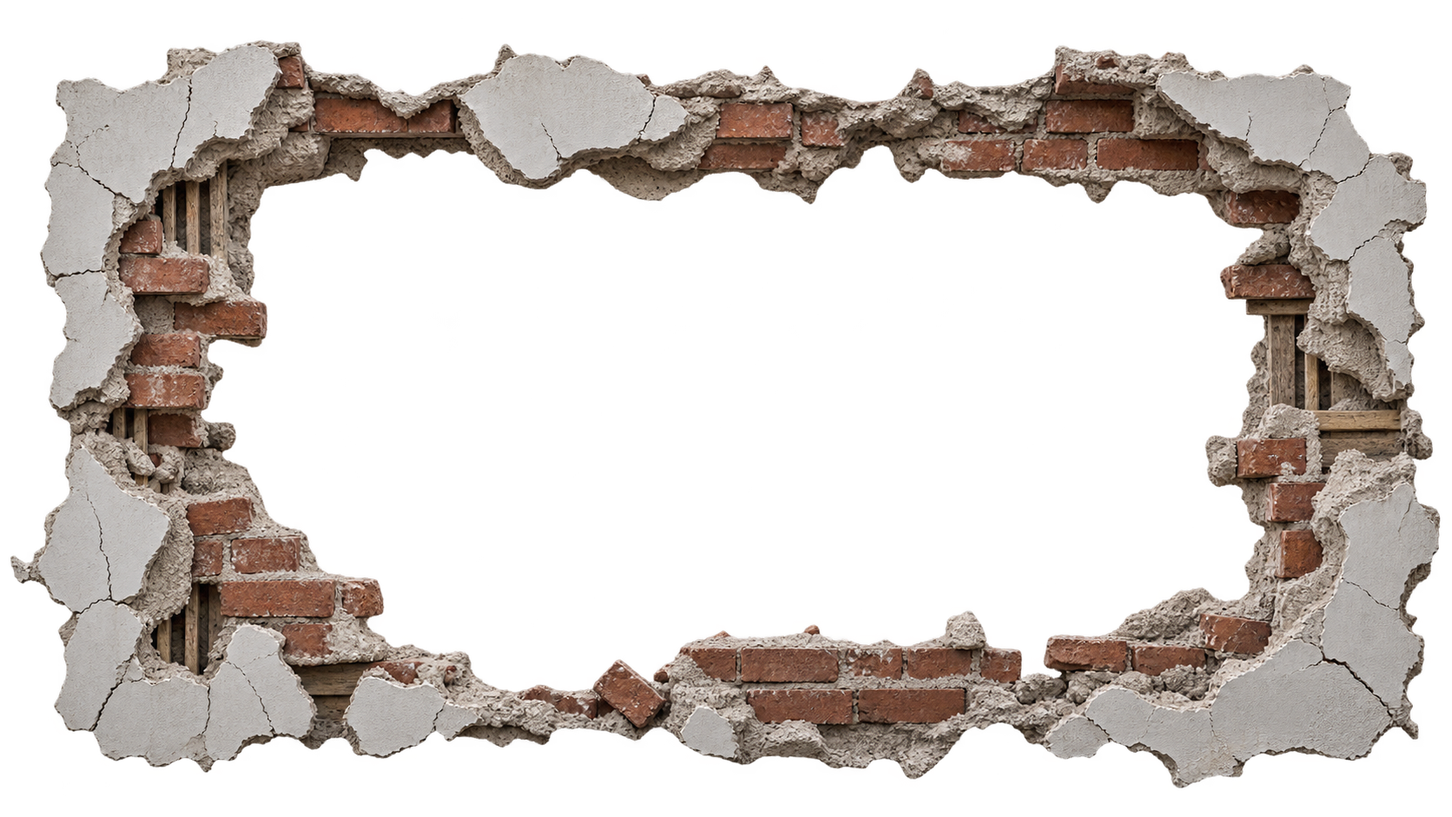
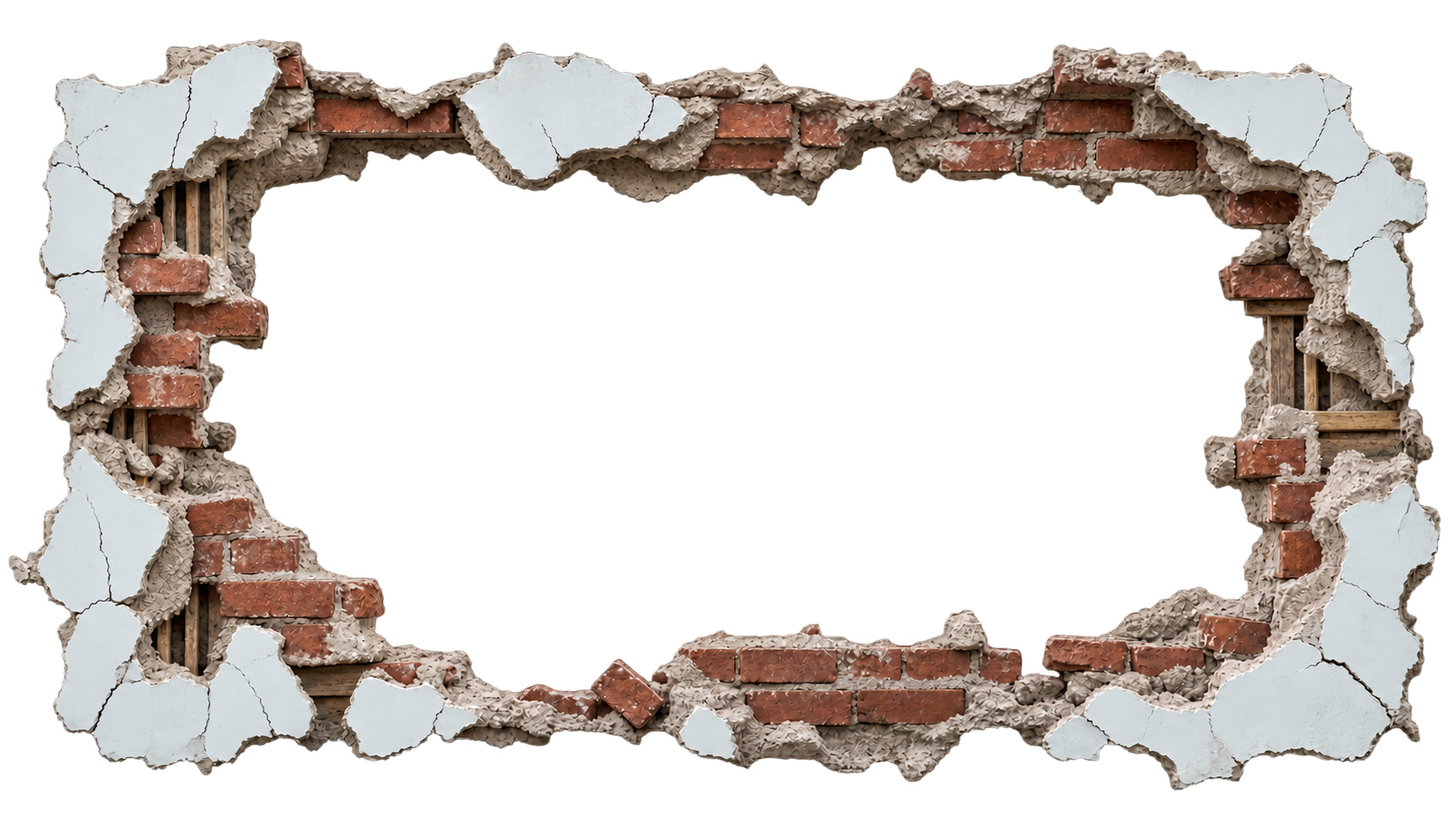
feat: accept Silk Commission 05 mineral frames

Changed region(s): [[0.0, 0.0308, 0.9952, 0.9862]]

diff --git a/src/client/e2e/project-story.spec.ts b/src/client/e2e/project-story.spec.ts
@@ -339,7 +339,7 @@ test('The Usual Specialists keeps Silk as apertures through the mineral page acr
       expect(await aperture.evaluate((element) => getComputedStyle(element).borderStyle)).toBe('none')
     }
 
-    const expectedCommission05Ratio = width <= 390 ? 1122 / 1402 : 1672 / 941
+    const expectedCommission05Ratio = width <= 390 ? 1024 / 1536 : 1672 / 941
     expect(
       Math.abs((commission05CompositionBox.width / commission05CompositionBox.height) - expectedCommission05Ratio),
       JSON.stringify({ width, commission05CompositionBox, expectedCommission05Ratio }),
@@ -397,7 +397,16 @@ test('The Usual Specialists keeps Silk as apertures through the mineral page acr
     expect(commission07.y, JSON.stringify({ width, commission07, commission05 })).toBeGreaterThan(commission05.y)
     expect(traversal.y, JSON.stringify({ width, traversal, commission05 })).toBeGreaterThan(commission05.y)
     expect(traversal.y, JSON.stringify({ width, traversal, commission05 })).toBeLessThan(commission05.y + commission05.height)
-    expect(traversal.y + traversal.height, JSON.stringify({ width, traversal, commission05 })).toBeGreaterThan(commission05.y + commission05.height)
+    if (width <= 390) {
+      // The portrait treatment is deliberately taller than the landscape frame.
+      // Keep Commission 06 overlapping the aperture without forcing it through the old bottom edge.
+      expect(
+        traversal.y + traversal.height,
+        JSON.stringify({ width, traversal, commission05 }),
+      ).toBeGreaterThanOrEqual(commission05.y + commission05.height - 40)
+    } else {
+      expect(traversal.y + traversal.height, JSON.stringify({ width, traversal, commission05 })).toBeGreaterThan(commission05.y + commission05.height)
+    }
     expect(story.y, JSON.stringify({ width, story, commission05 })).toBeGreaterThan(commission05.y)
     expect(receipt.y, JSON.stringify({ width, receipt, commission07 })).toBeGreaterThan(commission07.y)
     expect(nameMark.y, JSON.stringify({ width, nameMark, stage })).toBeGreaterThanOrEqual(stage.y)

diff --git a/src/client/scripts/validate-usual-specialists-provenance.test.ts b/src/client/scripts/validate-usual-specialists-provenance.test.ts
@@ -46,6 +46,9 @@ const validGraph = () => ({
     rope: { assets: [] },
     silk: { assets: [] },
   },
+  candidateManifests: {
+    silk: { assets: [] },
+  },
   generationReceipts: {
     index: { assets: { 'example-master': generationEntry() } },
     rope: { assets: {} },
@@ -80,6 +83,31 @@ describe('Usual Specialists provenance graph validator', () => {
     delete graph.acceptedManifests.index.assets[0].provenanceRecord
 
     expect(() => assertUsualSpecialistsProvenanceGraph(graph)).toThrow('provenanceRecord')
+  })
+
+  it('requires candidate custody to carry provenance and generation receipt coverage', () => {
+    const graph = validGraph()
+    graph.candidateManifests.silk.assets.push({
+      id: 'candidate-master',
+      status: 'candidate',
+      selection: 'page-review',
+      provenanceRecord: provenancePath,
+    })
+    graph.provenanceRecords[provenancePath] = provenanceRecord({ assetIds: ['example-master', 'candidate-master'] })
+
+    expect(() => assertUsualSpecialistsProvenanceGraph(graph)).toThrow('candidate-master')
+
+    graph.generationReceipts.silk.assets['candidate-master'] = generationEntry({
+      generationId: 'candidate-generation',
+      generationIdStatus: 'retained',
+      parentGenerationIdStatus: 'tool-returned-null',
+      seedStatus: 'not-supplied-by-tool',
+      generationDate: '2026-09-14',
+      generationDateStatus: 'retained',
+      briefStatus: 'normalized-from-approved-conversation',
+    })
+
+    expect(() => assertUsualSpecialistsProvenanceGraph(graph)).not.toThrow()
   })
 
   it('rejects a provenance pointer to a missing Markdown record', () => {

diff --git a/src/client/src/features/patch-showcase/usual-specialists/SilkCommission05Composition.test.tsx b/src/client/src/features/patch-showcase/usual-specialists/SilkCommission05Composition.test.tsx
@@ -3,7 +3,7 @@ import { describe, expect, test } from 'vitest'
 import { SilkCommission05Composition } from './SilkCommission05Composition'
 
 describe('SilkCommission05Composition', () => {
-  test('owns the accepted corridor scene inside the sealed world viewport and heavy frame', () => {
+  test('owns the accepted corridor scene inside the sealed world viewport and mineral-aligned accepted frames', () => {
     const { container } = render(<SilkCommission05Composition style={{ opacity: 0.5 }} />)
 
     const root = container.querySelector('[data-silk-commission-05-composition]')
@@ -21,6 +21,8 @@ describe('SilkCommission05Composition', () => {
     expect(frame).toHaveAttribute('src', expect.stringContaining('silk-commission-05-aperture-rim-heavy.webp'))
     expect(frame).toHaveAttribute('alt', '')
     expect(portraitFrame).toHaveAttribute('src', expect.stringContaining('silk-commission-05-aperture-rim-heavy-portrait.webp'))
+    expect(portraitFrame).toHaveAttribute('width', '1024')
+    expect(portraitFrame).toHaveAttribute('height', '1536')
     expect(portraitFrame).toHaveAttribute('alt', '')
   })
 

diff --git a/src/client/scripts/process-usual-specialists-assets.test.ts b/src/client/scripts/process-usual-specialists-assets.test.ts
@@ -1,6 +1,7 @@
 import { describe, expect, it } from 'vitest'
 import {
   USUAL_SPECIALISTS_ASSETS,
+  USUAL_SPECIALISTS_CANDIDATE_ASSETS,
   USUAL_SPECIALISTS_WEBP_OPTIONS,
   assertDerivativeReceipt,
   assertSourceIdentity,
@@ -57,7 +58,18 @@ describe('Usual Specialists asset processor', () => {
       output: 'silk-commission-06-abseil-hands-free.webp',
       width: 720,
     })
+    const silkPortraitFrame = USUAL_SPECIALISTS_ASSETS.find(({ id }) => id === 'silk-commission-05-aperture-rim-heavy-portrait')
+    expect(silkPortraitFrame).toMatchObject({
+      sourcePackage: 'silk',
+      source: 'silk-commission-05-aperture-rim-heavy-portrait.png',
+      output: 'silk-commission-05-aperture-rim-heavy-portrait.webp',
+      width: 1024,
+    })
     expect(USUAL_SPECIALISTS_WEBP_OPTIONS).toEqual({ quality: 82, alphaQuality: 100, effort: 6, smartSubsample: true })
+  })
+
+  it('has no active page-review derivatives after Commission 05 promotion', () => {
+    expect(USUAL_SPECIALISTS_CANDIDATE_ASSETS).toEqual([])
   })
 
   it('rejects source SHA drift', () => {

diff --git a/src/client/src/features/patch-showcase/usual-specialists/silkCommission05Geometry.ts b/src/client/src/features/patch-showcase/usual-specialists/silkCommission05Geometry.ts
@@ -1,7 +1,7 @@
 export const SILK_COMMISSION_05_FRAME_WIDTH = 1672
 export const SILK_COMMISSION_05_FRAME_HEIGHT = 941
-export const SILK_COMMISSION_05_PORTRAIT_FRAME_WIDTH = 1122
-export const SILK_COMMISSION_05_PORTRAIT_FRAME_HEIGHT = 1402
+export const SILK_COMMISSION_05_PORTRAIT_FRAME_WIDTH = 1024
+export const SILK_COMMISSION_05_PORTRAIT_FRAME_HEIGHT = 1536
 export const SILK_COMMISSION_05_FRAME_ALPHA_THRESHOLD = 250
 export const SILK_COMMISSION_05_FRAME_COVERAGE_BAND = 8
 
@@ -13,10 +13,10 @@ export const SILK_COMMISSION_05_VIEWPORT = {
 } as const
 
 export const SILK_COMMISSION_05_PORTRAIT_VIEWPORT = {
-  left: 170,
-  right: 957,
-  top: 150,
-  bottom: 1242,
+  left: 155,
+  right: 873,
+  top: 164,
+  bottom: 1361,
 } as const
 
 export const SILK_COMMISSION_05_VIEWPORT_INSETS = {

diff --git a/src/client/src/features/patch-showcase/usual-specialists/silkCommission05Geometry.test.ts b/src/client/src/features/patch-showcase/usual-specialists/silkCommission05Geometry.test.ts
@@ -36,12 +36,12 @@ describe('Silk Commission 05 geometry', () => {
     expect(safeTotalTravel).toBeGreaterThanOrEqual(128)
   })
 
-  test('uses the commissioned portrait viewport', () => {
+  test('uses the accepted portrait viewport scaled to the new source geometry', () => {
     expect(SILK_COMMISSION_05_PORTRAIT_VIEWPORT).toEqual({
-      left: 170,
-      right: 957,
-      top: 150,
-      bottom: 1242,
+      left: 155,
+      right: 873,
+      top: 164,
+      bottom: 1361,
     })
   })
 

diff --git a/src/client/src/features/patch-showcase/usual-specialists/SilkCommission05Composition.tsx b/src/client/src/features/patch-showcase/usual-specialists/SilkCommission05Composition.tsx
@@ -53,8 +53,8 @@ export const SilkCommission05Composition = ({ style }: SilkCommission05Compositi
       />
       <PortraitFrame
         src={usualSpecialistsAssetPath('silk-commission-05-aperture-rim-heavy-portrait.webp')}
-        width="1122"
-        height="1402"
+        width="1024"
+        height="1536"
         alt=""
         aria-hidden="true"
         data-silk-commission-05-portrait-frame

diff --git a/src/client/assets/patch/the-usual-specialists/provenance/commission-05-silk-aperture-frames.md b/src/client/assets/patch/the-usual-specialists/provenance/commission-05-silk-aperture-frames.md
@@ -15,9 +15,10 @@
 ## Status
 
 - Both heavy aperture frames: accepted current source assets
-- Landscape accepted: 2026-09-13
-- Portrait accepted: 2026-09-13
-- Portrait replaced the temporary rotated-landscape treatment at the narrow authored state.
+- Current mineral-aligned landscape accepted: 2026-09-14
+- Current mineral-aligned portrait accepted: 2026-09-14
+- The 2026-09-14 pair replaces the earlier accepted frame bytes under the same accepted asset IDs after live React/browser review.
+- The portrait is intentionally taller at `1024 × 1536`; that proportion is now part of the accepted narrow treatment.
 
 ## Original commission intent
 
@@ -25,13 +26,13 @@ Replace the obsolete torn-white-panel abstraction with physical broken mineral-p
 
 ## Material changes from original intent
 
-The current page only promoted the heavy Commission 05 first-aperture frame pair from the broader planned rim family. A dedicated portrait asset was generated rather than rotating, stretching or blindly cropping the landscape frame. The portrait received a stricter four-sided enclosure contract so React’s rectangular world viewport can never leak outside the physical rim.
+The current page only promoted the heavy Commission 05 first-aperture frame pair from the broader planned rim family. A dedicated portrait asset was generated rather than rotating, stretching or blindly cropping the landscape frame. On 14 September 2026 both frames were regenerated as palette-alignment replacements so intact plaster reads as the canonical `#e6eaeb` mineral page substrate rather than as a separate warm/cream material. The portrait regeneration is deliberately taller than the earlier accepted portrait; the page keeps that new proportion rather than forcing it back to the superseded geometry.
 
 ## Accepted execution brief
 
-Evidence status: `recovered-from-linear-record`.
+Evidence status: `normalized-from-approved-conversation` for the current pair; the superseded pair remains recoverable from the earlier Linear-backed record.
 
-Landscape: isolated heavy broken-plaster/mineral-wall frame with ordinary red/brown brick and masonry depth, transparent exterior and central opening, no world/character/rope/title pixels. Portrait: preserve the accepted landscape’s material/style only, but generate a fresh tall portrait frame with a complete structurally believable top, right, bottom and left edge and all four corners present. Do not rotate/stretch/crop the landscape source and do not leave any side open to the exterior.
+Current landscape and portrait: preserve the accepted ruined-wall geometry/composition as the strict same-orientation reference, but align intact plaster to the canonical mineral substrate `#e6eaeb`. Preserve natural cracks, chips, texture, thickness, relief and lighting; keep brick, mortar, rubble and timber materially distinct; retain genuine transparency outside the frame and through the central aperture; add no backdrop, scenery, matte, glow, shadow or coloured alpha fringe. This was a palette/material relationship correction, not a redesign. The portrait's taller `1024 × 1536` result was explicitly accepted in situ.
 
 ## Reference hierarchy
 
@@ -45,8 +46,8 @@ Landscape: isolated heavy broken-plaster/mineral-wall frame with ordinary red/br
 
 | Asset ID | Original generated filename | Dimensions | Bytes | SHA-256 |
 | --- | --- | --- | ---: | --- |
[4 lines of base64/hex data omitted]
 
 Repository sources live under `src/client/assets/patch/the-usual-specialists/silk/`.
 
@@ -54,26 +55,27 @@ Repository sources live under `src/client/assets/patch/the-usual-specialists/sil
 
 - Model: OpenAI Image 2.5
 - Model evidence: project-owner-confirmation-2026-09-14
-- Landscape generation ID: missing from retained history
-- Portrait generation ID: `82ca6eaa-45dd-48c8-a559-65899b9c26a8`
-- Portrait ID evidence: retained current repository custody record in `docs/asset-custody.md`; the earlier Linear checkpoint did not itself retain the ID
-- Parent generation IDs: missing from retained history
-- Seeds: missing from retained history
-- Generation date: 2026-09-12/13 for landscape staging; 2026-09-13 for portrait
-- Literal backend prompts: missing; portrait’s accepted human prompt direction is partially retained in Linear
+- Current landscape generation ID: `fa481155-bcdc-47e7-9082-55fa54c4adff`
+- Current portrait generation ID: `4c1e5ded-61e9-4068-8ded-e7f5d6b09e76`
+- Current generation date: 2026-09-14
+- Parent generation IDs: tool returned null for both current generations
+- Seeds: not supplied by the tool for either current generation
+- Literal backend prompts: not retained; the approved conversational palette-alignment brief is the retained human authority
[2 lines of base64/hex data omitted]
 
 ## Iteration history
 
-The landscape heavy frame was accepted after live React review. Narrow composition initially used a temporary rotated landscape treatment. A separate portrait generation was then requested with the complete four-sided enclosure constraint; the resulting portrait was visually accepted and replaced the temporary rotation.
+The original landscape heavy frame was accepted after live React review. Narrow composition initially used a temporary rotated landscape treatment; a separate portrait generation was then accepted and replaced that temporary rotation. On 14 September 2026 both accepted frames were regenerated to align intact plaster with the `#e6eaeb` mineral page substrate. The new pair entered candidate custody with provenance before React use, was reviewed live in the V2 preview, and was then explicitly accepted by Harley. The accepted IDs and paths were retained while their source bytes were replaced; the earlier source identities remain historical evidence only.
 
 ## Acceptance decision
 
-Accepted by Harley Bartles on 2026-09-13 after live React review. Portrait acceptance included measured proof that the React viewport `x=170..957`, `y=150..1242` remains covered by the physical frame with an inward alpha band, so the world layer cannot leak around the aperture.
+Current pair accepted by Harley Bartles on 2026-09-14 after live browser review. Harley explicitly preferred the taller portrait and directed the implementation not to fight it back into the old proportions. The landscape hard viewport remains `x=200..1500`, `y=130..820`; the current portrait hard viewport is `x=155..873`, `y=164..1361`. Both were proven against an 8px inward coverage band at alpha threshold 250 before acceptance.
 
 ## Known accepted limitations
 
-- Landscape generation ID is not retained.
 - The broader second-breach/reaction-slit rim package described in the source brief is not implied accepted by this record.
+- The superseded landscape generation ID remains missing from retained history; this does not affect the current accepted generation, whose ID is retained.
 
 ## Composition / ownership contract
 
@@ -85,12 +87,9 @@ Both PNG masters have deterministic WebP page-use derivatives generated by the p
 
 ## Missing historical evidence
 
-- Landscape generation ID.
-- Parent generation IDs.
-- Seeds.
-- Literal backend prompts.
+- Superseded landscape generation ID.
+- Literal backend prompts for both current generations; only the approved conversational brief is retained.
 
 ## Custody history
 
-OpenAI Image 2.5 landscape generation → live React acceptance → OpenAI Image 2.5 portrait continuity generation → portrait replacement accepted → Portfolio source custody → temporary Linear checkpoint → normalized Portfolio provenance → intended eventual Adventures of Patch promotion.
-
+OpenAI Image 2.5 original landscape generation → live React acceptance → original portrait continuity generation → portrait accepted → Portfolio source custody → temporary Linear checkpoint → normalized Portfolio provenance → 2026-09-14 mineral-alignment landscape/portrait generations → candidate custody plus contemporaneous provenance → live V2 browser review → explicit acceptance → replacement of the old accepted source bytes under the existing accepted IDs → intended eventual Adventures of Patch promotion.

diff --git a/docs/asset-custody.md b/docs/asset-custody.md
@@ -299,12 +299,13 @@ The accepted homepage artwork was promoted from the Phase 8 editorial proof on 2
 
 ## The Usual Specialists accepted assets
 
-Portfolio is temporary canonical source/provenance custody for the accepted *The Usual Specialists* image work. Long-term promotion to the Adventures of Patch repository is a separate future custody action. Accepted source masters live under `src/client/assets/patch/the-usual-specialists/index/`, `rope/`, and `silk/`; source manifests answer which bytes are accepted in each package. Detailed human provenance now lives under `src/client/assets/patch/the-usual-specialists/provenance/`, package `generation-receipt.json` files record genuinely known generation metadata, and `src/client/public/media/patch/the-usual-specialists/usual-specialists-derivatives.json` is the authority for deterministic page-use derivative identity. Linear is migration history only; `provenance/linear-source-register.json` records deletion readiness.
+Portfolio is temporary canonical source/provenance custody for the accepted *The Usual Specialists* image work and may also hold explicitly selected page-review candidates while they are under review. Long-term promotion to the Adventures of Patch repository is a separate future custody action. Accepted source masters live under `src/client/assets/patch/the-usual-specialists/index/`, `rope/`, and `silk/`; source manifests answer which bytes are accepted in each package. Candidate masters, when present, stay outside those accepted manifests in scoped `candidates/` packages with their own `candidate-assets.json`. Detailed human provenance now lives under `src/client/assets/patch/the-usual-specialists/provenance/`, package `generation-receipt.json` files record genuinely known generation metadata, and `src/client/public/media/patch/the-usual-specialists/usual-specialists-derivatives.json` is the authority for deterministic page-use derivative identity. Linear is migration history only; `provenance/linear-source-register.json` records deletion readiness.
 
-- Source/derivative boundary: accepted PNG masters are durable reproduction inputs, not public site media. `src/client/scripts/process-usual-specialists-assets.mjs` verifies each committed master against the owning `accepted-assets.json`, verifies the normalized provenance graph and generation receipts, and verifies public derivatives. `npm --prefix src/client run media:usual-specialists:apply` is the only writer; `npm --prefix src/client run media:usual-specialists:check` writes nothing and fails on source, provenance, derivative, or receipt drift.
+- Source/derivative boundary: accepted PNG masters and any explicitly selected page-review candidate PNG masters are durable reproduction inputs, not public site media. `src/client/scripts/process-usual-specialists-assets.mjs` verifies accepted masters against the owning `accepted-assets.json`, verifies any active page-review candidates against their scoped custody manifest, verifies the normalized provenance graph and generation receipts, and verifies public derivatives. `npm --prefix src/client run media:usual-specialists:apply` is the only writer; `npm --prefix src/client run media:usual-specialists:check` writes nothing and fails on source, provenance, derivative, or receipt drift.
 - Deterministic transform: Sharp 0.34.5 resizes without enlargement at the accepted widths, preserves aspect ratio/alpha, strips metadata, and encodes WebP with `{ quality: 82, alphaQuality: 100, effort: 6, smartSubsample: true }`. Explicit source crops/masks are recorded as deterministic lineage rather than new image-generation events.
 - Index/opening public derivatives: `src/client/public/media/patch/the-usual-specialists/safehouse-threshold.webp`, `src/client/public/media/patch/the-usual-specialists/opening-rope-start-anchor.webp`, `src/client/public/media/patch/the-usual-specialists/index-desktop-base.webp`, `src/client/public/media/patch/the-usual-specialists/index-assent-note.webp`, `src/client/public/media/patch/the-usual-specialists/index-blue-carrier.webp`, `src/client/public/media/patch/the-usual-specialists/index-graph-paper.webp`, `src/client/public/media/patch/the-usual-specialists/index-observation.webp`, `src/client/public/media/patch/the-usual-specialists/index-macguffin.webp`, `src/client/public/media/patch/the-usual-specialists/index-walk.webp`, `src/client/public/media/patch/the-usual-specialists/index-inspect.webp`, `src/client/public/media/patch/the-usual-specialists/index-high-step.webp`, `src/client/public/media/patch/the-usual-specialists/index-return.webp`, `src/client/public/media/patch/the-usual-specialists/patch-follow.webp`, `src/client/public/media/patch/the-usual-specialists/patch-leaning.webp`, and `src/client/public/media/patch/the-usual-specialists/patch-return.webp`.
 - Silk public derivatives: `src/client/public/media/patch/the-usual-specialists/silk-commission-05-aperture-rim-heavy.webp`, `src/client/public/media/patch/the-usual-specialists/silk-commission-05-aperture-rim-heavy-portrait.webp`, `src/client/public/media/patch/the-usual-specialists/silk-commission-05-corridor.webp`, `src/client/public/media/patch/the-usual-specialists/silk-index-crossing-anchor-ring.webp`, `src/client/public/media/patch/the-usual-specialists/silk-index-crossing-knot-foreground.webp`, `src/client/public/media/patch/the-usual-specialists/silk-index-crossing-knot-foreground-crop.webp`, `src/client/public/media/patch/the-usual-specialists/silk-index-crossing-ring-occluder.webp`, `src/client/public/media/patch/the-usual-specialists/silk-commission-06-threshold-crossing.webp`, and `src/client/public/media/patch/the-usual-specialists/silk-commission-06-abseil-hands-free.webp`.
+- Silk Commission 05 mineral-alignment replacement: Harley accepted the 14 September 2026 landscape and portrait regenerations after live browser review. They now occupy the existing accepted IDs and source paths `silk-commission-05-aperture-rim-heavy` and `silk-commission-05-aperture-rim-heavy-portrait`; the previous accepted bytes are retained only as historical identity in provenance/generation records, not as live source custody. The portrait is intentionally taller at `1024 × 1536`; the React narrow treatment preserves that authored proportion rather than forcing it back to the earlier `1122 × 1402` shape.
 - Rope public derivatives: `src/client/public/media/patch/the-usual-specialists/rope-loose-a.webp`, `src/client/public/media/patch/the-usual-specialists/rope-loose-b.webp`, `src/client/public/media/patch/the-usual-specialists/rope-loose-c.webp`, `src/client/public/media/patch/the-usual-specialists/rope-terminal-curl.webp`, `src/client/public/media/patch/the-usual-specialists/rope-taut-straight.webp`, `src/client/public/media/patch/the-usual-specialists/rope-taut-bow.webp`, and `src/client/public/media/patch/the-usual-specialists/rope-taut-offset.webp`.
 - Accepted-but-not-promoted sources are allowed. The normalized provenance/Index generation receipt preserve accepted traversal assets that never entered Portfolio source custody; they are not silently copied into `accepted-assets.json` merely for symmetry.
[1 lines of base64/hex data omitted]

diff --git a/src/client/assets/patch/the-usual-specialists/provenance/README.md b/src/client/assets/patch/the-usual-specialists/provenance/README.md
@@ -1,14 +1,15 @@
 # The Usual Specialists generated-image provenance
 
-This directory is the temporary canonical human-readable provenance store for accepted generated imagery used by **The Usual Specialists** while the work is owned by the Portfolio repository. The intended long-term home is the Adventures of Patch repository; that promotion is a separate future custody action.
+This directory is the temporary canonical human-readable provenance store for accepted generated imagery and explicitly selected page-review candidates used by **The Usual Specialists** while the work is owned by the Portfolio repository. The intended long-term home for accepted work is the Adventures of Patch repository; that promotion is a separate future custody action.
 
 Schema version: **1**.
 
 The custody authorities are intentionally separate:
 
 - package `accepted-assets.json` files answer **which source bytes are accepted in repository custody**;
+- scoped `candidate-assets.json` files under a package `candidates/` lane answer **which source bytes are deliberately retained for reversible page review without implying acceptance**;
 - package `generation-receipt.json` files answer **which generation metadata is actually known**;
-- these Markdown records answer **why the asset was commissioned, what changed, what brief governed the accepted result, and why it was accepted**;
+- these Markdown records answer **why the asset was commissioned, what changed, what brief governed the retained result, and what acceptance or candidate-review decision actually exists**;
 - `src/client/public/media/patch/the-usual-specialists/usual-specialists-derivatives.json` answers **which deterministic page-use derivatives the processor emitted**;
 - `linear-source-register.json` is a migration/deletion-readiness ledger only. Linear is legacy evidence, not current canonical provenance custody.
 
@@ -25,7 +26,8 @@ Missing generation metadata is explicit. A `null` value in a generation receipt 
 
 Accepted source custody can differ from accepted provenance custody. `accepted-not-promoted` means an asset was genuinely accepted in the historical review but its source master was never promoted into Portfolio. Do not copy such files into Portfolio merely to make the manifests symmetrical.
 
+Candidate custody is not acceptance. A candidate selected for page review remains outside every `accepted-assets.json` manifest, carries `status: candidate` and `selection: page-review`, and uses a distinct deterministic public derivative. Promotion, rejection, supersession, and removal require a later explicit human decision.
+
 The campaign generation model is **OpenAI Image 2.5**, confirmed by the project owner on 2026-09-14. Historical tool records that did not expose a model must not be rewritten as though they did; the generation receipt records the evidence basis separately.
 
 For ongoing work, follow `.agents/runbooks/generated-image-custody.md`: write provenance while the generation context is still fresh and before the selected asset is stood up on the page.
-
